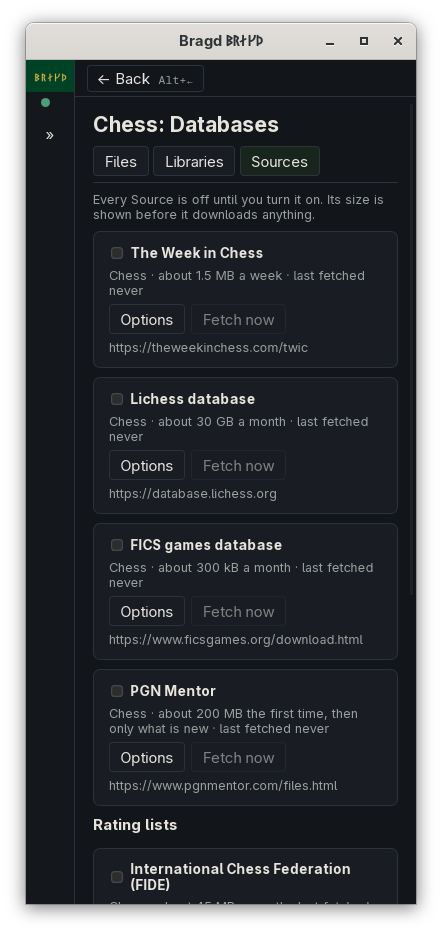
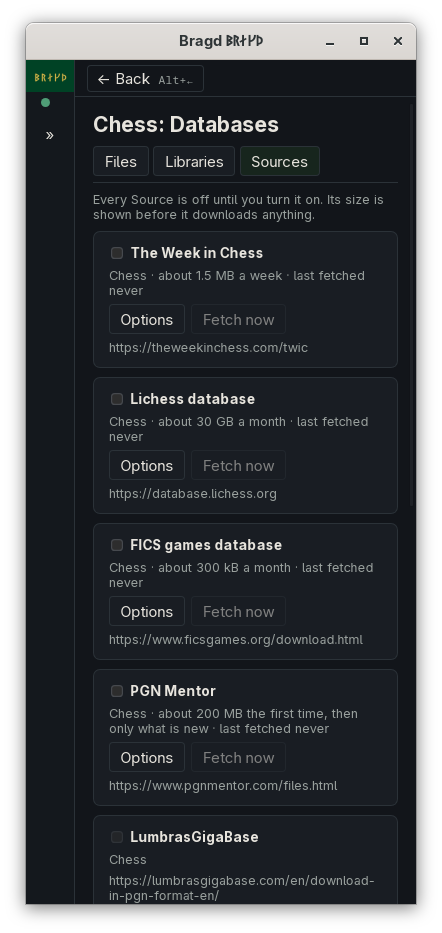
Sources lists the well-known Sources this version cannot fetch yet, and says how to export your own pychess Games by hand.

Changed region(s): [[0.2059, 0.8703, 0.8235, 0.9636]]

diff --git a/gui/src/Sources.svelte b/gui/src/Sources.svelte
@@ -5,8 +5,9 @@
   // Routes: each a Library (one there, or a new one by name) and a Strip rule, with Preview (a
   // dry run) and Apply over all of them. A Source with parts (Lichess Variants, FICS game
   // types) has a box for each, and one of monthly files a first month. A Source of the user's
-  // own Games on a site says which account, and fetches one Game by its address too. Rust lists only the
-  // Sources this version can fetch. A custom URL can be added, and removed again.
+  // own Games on a site says which account, and fetches one Game by its address too. Rust lists
+  // every Source, and says why one this version cannot fetch yet has no box to tick. A custom
+  // URL can be added, and removed again.
   import * as k from "./knowledge.js";
   import { t, i18n } from "./i18n.svelte.js";
   import Picker from "./Picker.svelte";
@@ -114,15 +115,15 @@
   <article class="panel source">
     <div class="head">
       <label class="check">
-        <input type="checkbox" checked={s.options.enabled} onchange={(e) => save(s.id, { ...s.options, enabled: e.currentTarget.checked })} />
+        <input type="checkbox" checked={s.options.enabled} disabled={!!s.later} onchange={(e) => save(s.id, { ...s.options, enabled: e.currentTarget.checked })} />
         <strong>{s.name}</strong>
       </label>
-      <span class="meta">{s.familyName} · {s.size} · {t("source.last", { when: s.last })}</span>
-      <span class="buttons">
+      <span class="meta">{s.later ? s.familyName : `${s.familyName} · ${s.size} · ${t("source.last", { when: s.last })}`}</span>
+      {#if !s.later}<span class="buttons">
         <button onclick={() => expand(s)} aria-expanded={open === s.id}>{open === s.id ? t("source.less") : t("source.more")}</button>
         <button onclick={() => start(s.id, k.sourceFetch(s.id))} disabled={!s.options.enabled}>{t("source.fetch_now")}</button>
         {#if s.custom}<button onclick={() => (removing = s.id)}>{t("source.remove")}</button>{/if}
-      </span>
+      </span>{/if}
     </div>
     {#if removing === s.id}
       <div class="notice" role="alertdialog" aria-label={t("source.remove")}>
@@ -137,6 +138,7 @@
       <p class="notice">{s.tooBig} <button onclick={() => start(s.id, k.sourceAllow(s.id))}>{t("source.allow")}</button></p>
     {/if}
     <small class="url">{s.url}</small>
+    {#if s.later}<p class="hint">{s.later}</p>{/if}
     {#if s.account}
       <p class="hint">{s.account}</p>
       <div class="bar">

diff --git a/gui/src-tauri/src/knowledge.rs b/gui/src-tauri/src/knowledge.rs
@@ -432,6 +432,9 @@ pub struct SourceView {
     pub parts: Vec<Pick>,
     /// A file a month: `options.since` says from which.
     pub months: bool,
+    /// Why it cannot be turned on, for a well-known Source this version lists but cannot fetch
+    /// yet; empty for one it fetches.
+    pub later: String,
     /// Whose Games it fetches, for a Source of the user's own Games through an online account;
     /// empty for any other. Such a Source also fetches one Game by its address.
     pub account: String,
@@ -487,18 +490,14 @@ fn size_text(a: &sources::About, o: &Options) -> String {
     t!(&bragd_core::wizard::size_key(&schedule, a.first_only), "size" => size)
 }
 
-/// The Sources the page lists: those this version can fetch. The others wait, unlisted, until
-/// it can; the install wizard names them in one line (`wizard::coming`).
-fn listed(all: Vec<(sources::About, Options, sources::Memo)>) -> impl Iterator<Item = (sources::About, Options, sources::Memo)> {
-    all.into_iter().filter(|(a, _, _)| a.fetchable)
-}
 
 #[tauri::command(async)]
 pub fn sources_list(k: State<'_, Knowledge>, ctx: State<'_, Ctx>) -> Res<SourcesPage> {
     let now = bragd_core::fs::now();
     let tags = bragd_core::i18n::locale_tags();
     let cfg = ctx.cfg();
-    let sources = listed(sources_of(&k)?)
+    let sources = sources_of(&k)?
+        .into_iter()
         .map(|(a, o, m)| {
             let list = bragd_clubs::lists::LISTS.iter().find(|l| l.id == a.id);
             (a, o, m, list)
@@ -511,6 +510,7 @@ pub fn sources_list(k: State<'_, Knowledge>, ctx: State<'_, Ctx>) -> Res<Sources
         .map(|(a, o, m, list, parts)| SourceView {
             parts,
             months: a.months,
+            later: if a.fetchable { String::new() } else { t!(sources::OUT_OF_SCOPE, "source" => a.name) },
             account: bragd_online::server::find(&a.account).map(|s| t!("source.account", "server" => s.name)).unwrap_or_default(),
             more: list.is_some_and(|l| !l.suggested(&tags)) && !o.enabled,
             family_name: if a.family.is_empty() { t!("source.any_family") } else { t!(&format!("family.{}", a.family)) },
@@ -732,14 +732,10 @@ pub fn library_prune(dry_run: bool, k: State<'_, Knowledge>) -> Res<u64> {
 mod tests {
     use super::*;
 
-    /// The page lists only what this version can fetch: TWIC and the Lichess database, not LumbrasGigaBase.
     #[test]
-    fn sources_this_version_cannot_fetch_are_not_listed() {
-        let all = sources::builtin().iter().map(|s| (s.about(), s.about().defaults(), sources::Memo::default())).collect();
-        let ids: Vec<String> = listed(all).map(|(a, _, _)| a.id).collect();
-        assert!(ids.contains(&"twic".to_string()) && ids.contains(&"lichess-db".to_string()) && !ids.contains(&"lumbras".to_string()), "{ids:?}");
+    fn a_source_says_how_often_it_is_fetched() {
         let twic = sources::builtin().into_iter().find(|s| s.about().id == "twic").unwrap().about();
-        assert!(size_text(&twic, &twic.defaults()).ends_with("a week"), "a Source says how often it is fetched");
+        assert!(size_text(&twic, &twic.defaults()).ends_with("a week"));
     }
 
     /// KGS and PGN Mentor size the first fetch, the whole archive; they must not say "a month".

diff --git a/crates/bragd-helper/src/sources.rs b/crates/bragd-helper/src/sources.rs
@@ -573,7 +573,8 @@ pub fn builtin() -> Vec<Box<dyn Source>> {
         later("lumbras", "LumbrasGigaBase", "chess", 4_000_000_000, Schedule::Monthly, "https://lumbrasgigabase.com/en/download-in-pgn-format-en/"),
         Box::new(ogs::Ogs),
         Box::new(kgs::Kgs),
-        later("pychess", "pychess exports", "chess", 500_000_000, Schedule::Monthly, "https://www.pychess.org/"),
+        // shortcut: pychess exports a player's Games only to its own signed-in web page, and Bragd cannot sign in to pychess yet (#211).
+        later("pychess", "pychess", "chess", 2_000_000, Schedule::Daily, "https://www.pychess.org/"),
         later("lishogi", "Lishogi exports", "shogi", 500_000_000, Schedule::Monthly, "https://lishogi.org/"),
     ]
     .into_iter()

diff --git a/docs/knowledge/sources.md b/docs/knowledge/sources.md
@@ -4,7 +4,7 @@
 
 A Source is where Games come from, such as The Week in Chess. When a Source is on, the [Helper](helper.md) fetches it on its schedule and imports its Games through its Routes: into `main.bragd` unless you add others. Every Source is off until you turn it on, and its size per fetch and schedule, such as *about 1.5 MB a week*, is shown before it downloads anything. You can also add any address of a game file as a custom URL Source, and remove it again.
 
-![The Sources tab for chess: The Week in Chess, the Lichess database, the FICS games database and PGN Mentor, each with its size, last fetch, Options and Fetch now, the rating lists with More lists folded, and Add a custom URL at the bottom](../screenshots/databases-sources-1100.png)
+![The Sources tab for chess: The Week in Chess, the Lichess database, the FICS games database and PGN Mentor, each with its size, last fetch, Options and Fetch now, then LumbrasGigaBase and pychess with no box to tick and a line saying this version cannot fetch them yet, the rating lists with More lists folded, and Add a custom URL at the bottom](../screenshots/databases-sources-1100.png)
 *Databases → Sources.*
 
 ## How to reach it
@@ -35,7 +35,7 @@ The install wizard's Knowledge step offers TWIC too, ticked ([The install wizard
 | `sshl-ratings` | Finnish Chess Federation (SShL) | chess | 0.75 MB | Monthly |
 | `nzcf-ratings` | New Zealand Chess Federation (NZCF) | chess | 0.9 MB | Monthly |
 
-Some Sources are planned but not fetched by this version: LumbrasGigaBase, and the pychess and Lishogi exports. Sources does not list them until a version of Bragd can fetch them. The install wizard names those of your Families in one line, *Coming later*.
+Some well-known Sources are listed but not fetched by this version: LumbrasGigaBase, pychess and Lishogi. Sources shows each with its address and *This version of Bragd cannot fetch it yet*, and no box to tick. The install wizard names those of your Families in one line, *Coming later*.
 
 **Parts and months.** The Lichess database, FICS and PGN Mentor have **What to fetch** in their Options: Variants, game types or sections. The Lichess database and FICS, a file a month, also have **First month**, the month their first fetch starts from. Each has a page of its own, linked in the table.
 
@@ -103,9 +103,13 @@ A packed game file (`.pgn.zst`, `.pgn.bz2`, `.pgn.gz`) is unpacked as it is read
 
 No. Every Source starts off. Nothing is fetched until you tick it, or tick it in the install wizard and press Done.
 
-#### Why is LumbrasGigaBase not listed?
+#### Why can I not tick LumbrasGigaBase?
 
-This version of Bragd cannot fetch it yet, so Sources leaves it out rather than show a box you cannot tick. Its site starts each download from the page itself and sends 7z archives, which Bragd cannot read as a stream. The same goes for the other planned Sources named under [The Sources](#the-sources). Until then, a file you downloaded yourself can be opened in place as a [Foreign database](foreign-databases.md).
+This version of Bragd cannot fetch it yet. Its site starts each download from the page itself and sends 7z archives, which Bragd cannot read as a stream. Sources lists it all the same, so you know where it is. Until then, a file you downloaded yourself can be opened in place as a [Foreign database](foreign-databases.md).
+
+#### Why can I not tick pychess?
+
+pychess.org gives a player's Games only to its own web page, signed in in the browser, and has no sign-in for other apps ([pychess.org](../online/pychess.md)). Bragd fetches them once pychess.org offers one. Until then, export your Games yourself: signed in on pychess.org, open `https://www.pychess.org/api/games/user/<your name>/pgn` in the browser, save the page as a `.pgn` file, and open it in Bragd as a [Foreign database](foreign-databases.md).
 
 #### What does "metered" mean here?
 

diff --git a/docs/online/pychess.md b/docs/online/pychess.md
@@ -25,6 +25,10 @@ pychess.org adding a sign-in for apps and an API for a person's Games, as Liches
 
 Yes, on Bragd's own server: [Play with Friends](play-with-friends.md) plays every Family, xiangqi and shogi among them. To meet the players on pychess.org, play there in your browser.
 
+#### Can Bragd fetch my pychess Games?
+
+Not yet. pychess.org exports a player's Games only to that player, signed in in the browser, and Bragd cannot sign in there. Sources lists pychess without a box to tick until it can. To have them now, export them yourself ([Sources](../knowledge/sources.md#why-can-i-not-tick-pychess)).
+
 #### Can Bragd's Engines play on pychess.org as a bot?
 
 pychess.org's bot API would allow it for a new account made for the purpose, but that is not playing yourself, and Bragd does not offer it.

diff --git a/docs/getting-started/first-start.md b/docs/getting-started/first-start.md
@@ -60,7 +60,7 @@ No. Steps 1 to 6 only save settings. The downloads you ticked start when you pre
 
 #### What does "Coming later" name?
 
-The Sources of your Game families that this version cannot fetch yet, in one line under the downloads you can choose. For chess it is LumbrasGigaBase; pychess and Lishogi for the games they play. They have no box to tick until a version of Bragd can fetch them.
+The Sources of your Game families that this version cannot fetch yet, in one line under the downloads you can choose. For chess it is LumbrasGigaBase; pychess and Lishogi for the games they play. They have no box to tick until a version of Bragd can fetch them, here or under Sources, which lists them all the same.
 
 #### Which Themes are on the Welcome step?
 

diff --git a/changelog.d/s3-pychess-source.md b/changelog.d/s3-pychess-source.md
@@ -1,0 +1,1 @@
+| **Sources lists LumbrasGigaBase and pychess even before Bragd can fetch them**, each with its address and a line saying so, and the pychess page says how to export your own pychess Games by hand meanwhile. | [Sources](knowledge/sources.md#why-can-i-not-tick-pychess) |
